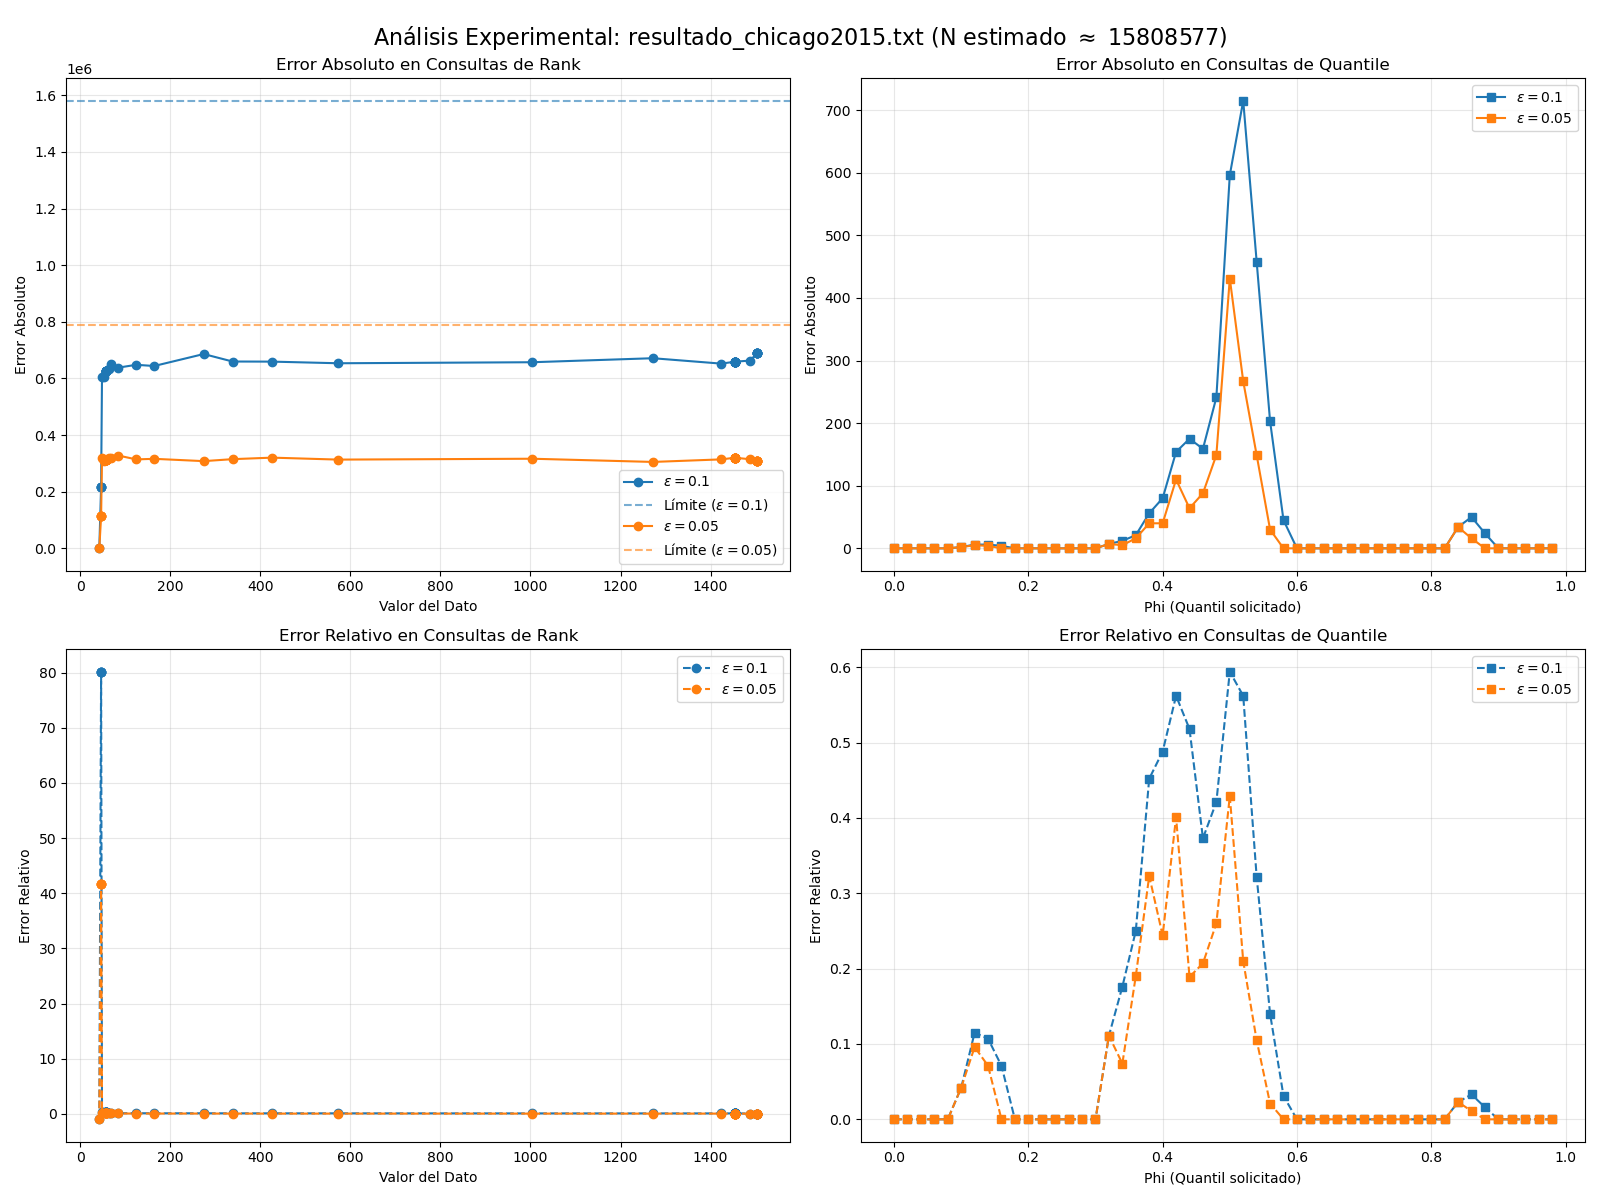
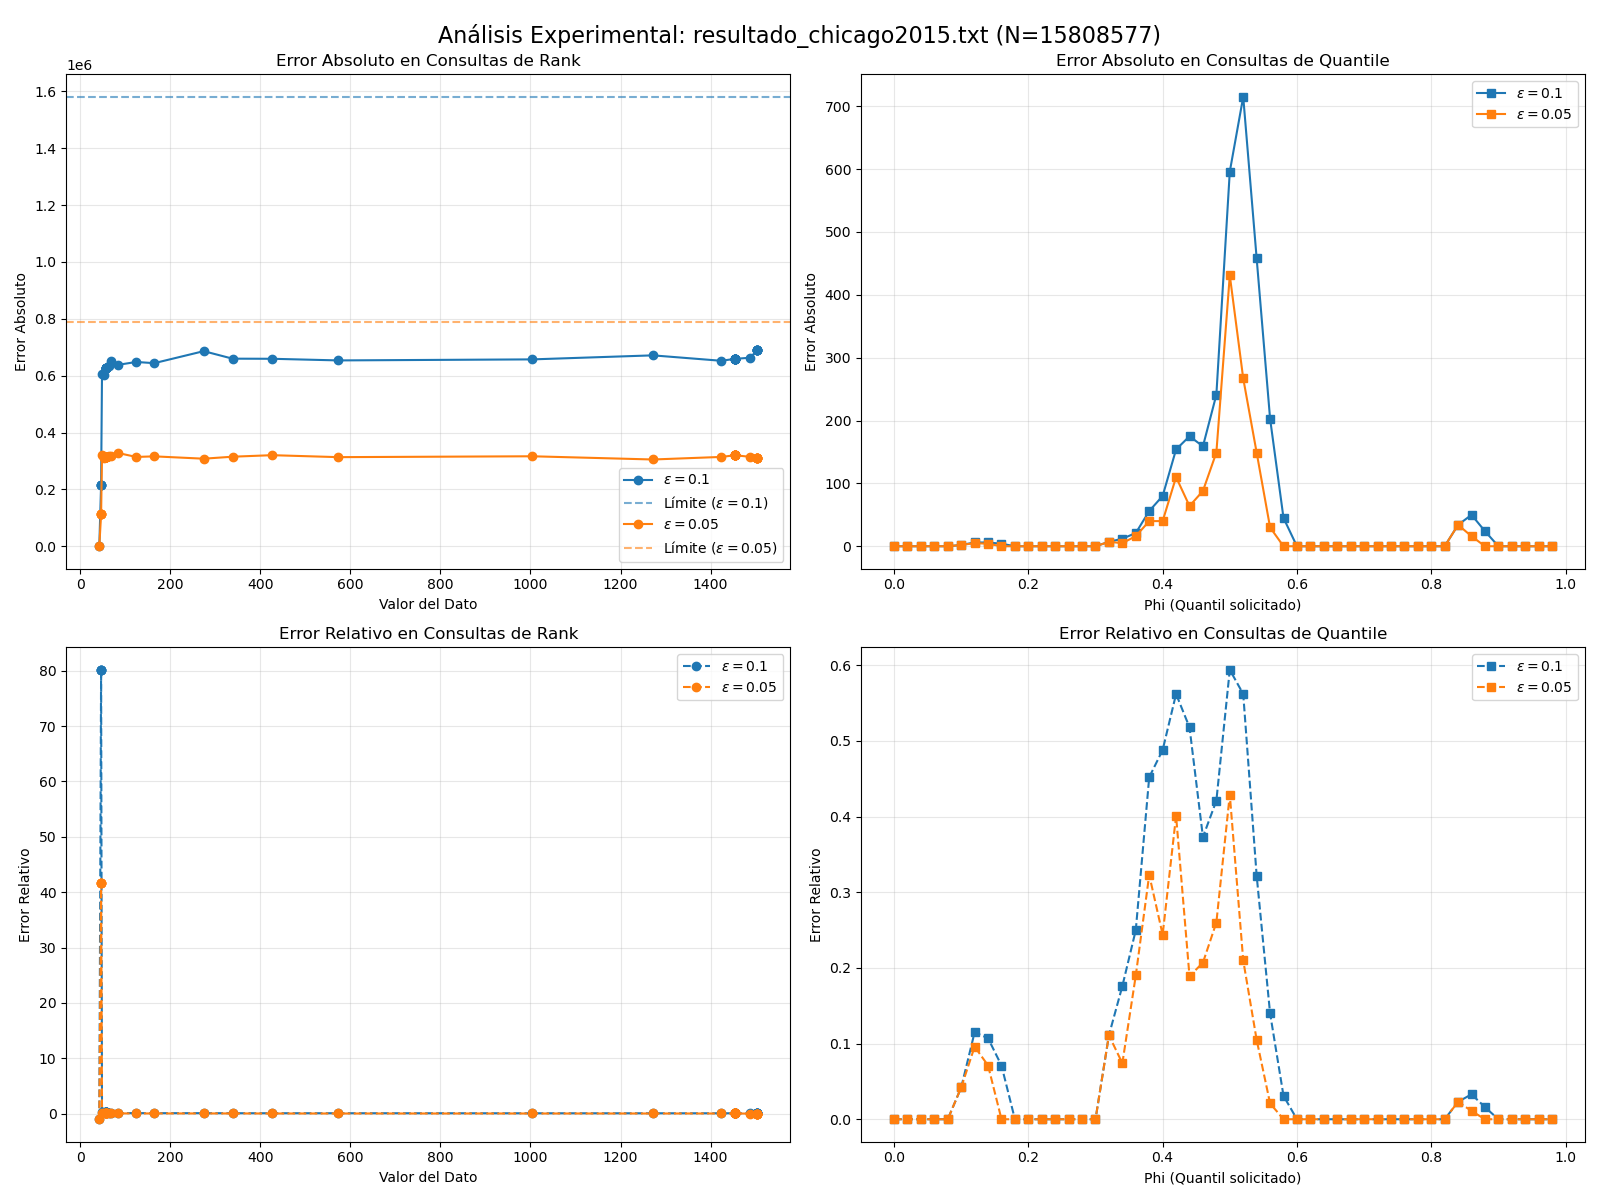
fix: se corrige titulo de los plots

diff --git a/grapher.py b/grapher.py
@@ -39,7 +39,7 @@ def plot_results():
             
             # --- MODIFICACIÓN: Creamos una grilla de 2 filas x 2 columnas ---
             fig, axes = plt.subplots(2, 2, figsize=(16, 12))
-            fig.suptitle(f'Análisis Experimental: {base_name} (N estimado $\\approx$ {N})', fontsize=16)            
+            fig.suptitle(f'Análisis Experimental: {base_name} (N={N})', fontsize=16)            
             
             epsilons = sorted(df['Epsilon'].unique(), reverse=True)
 
